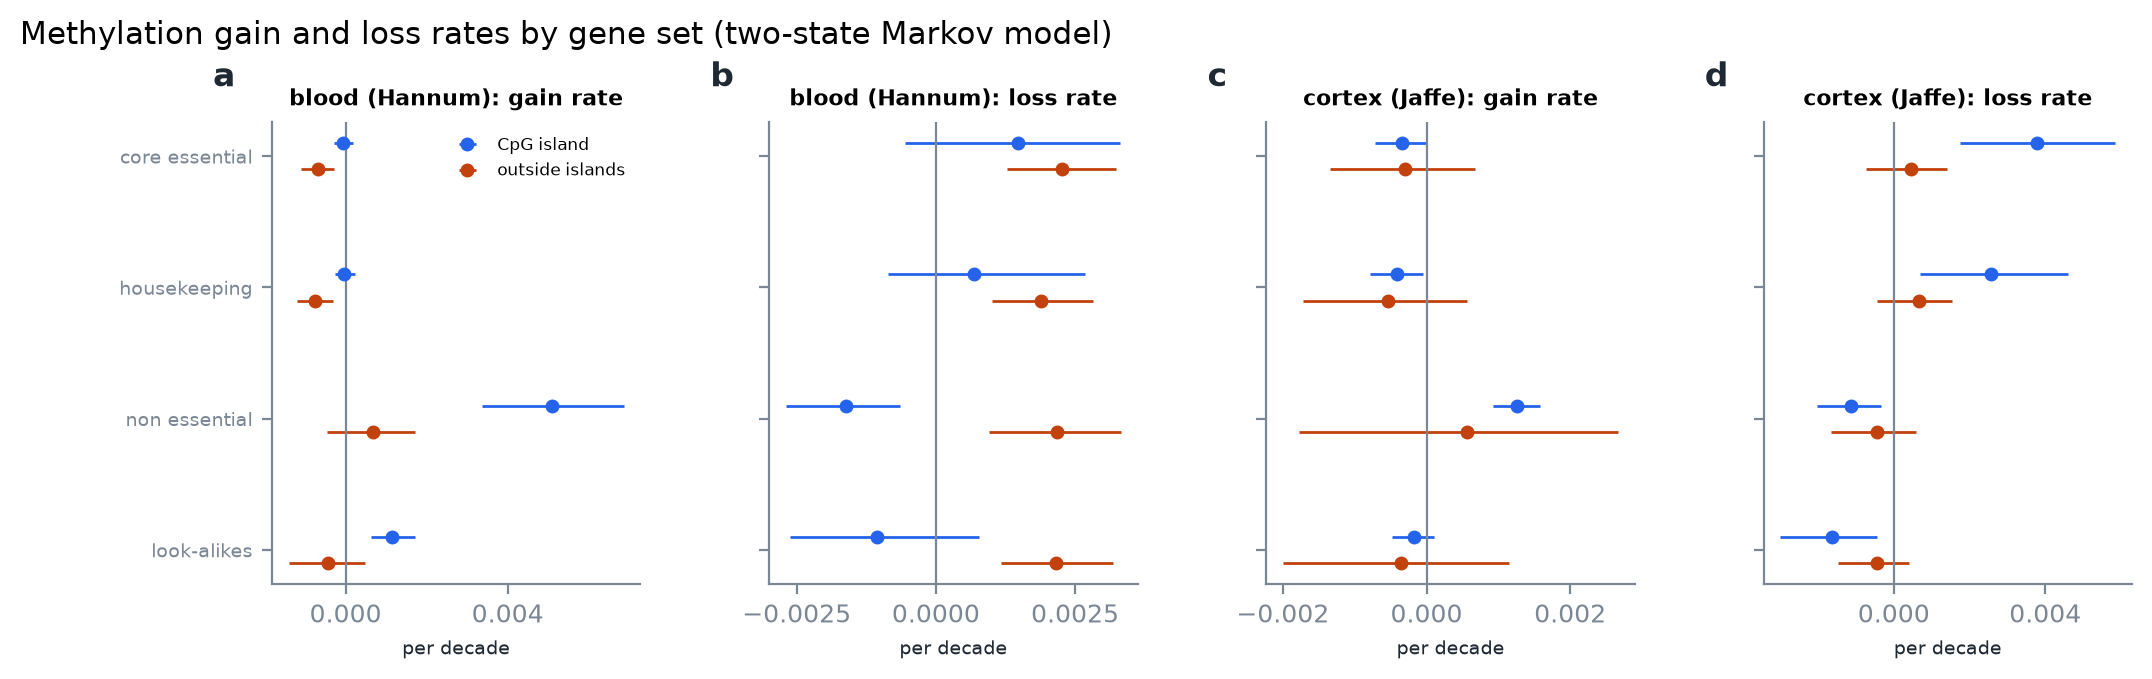
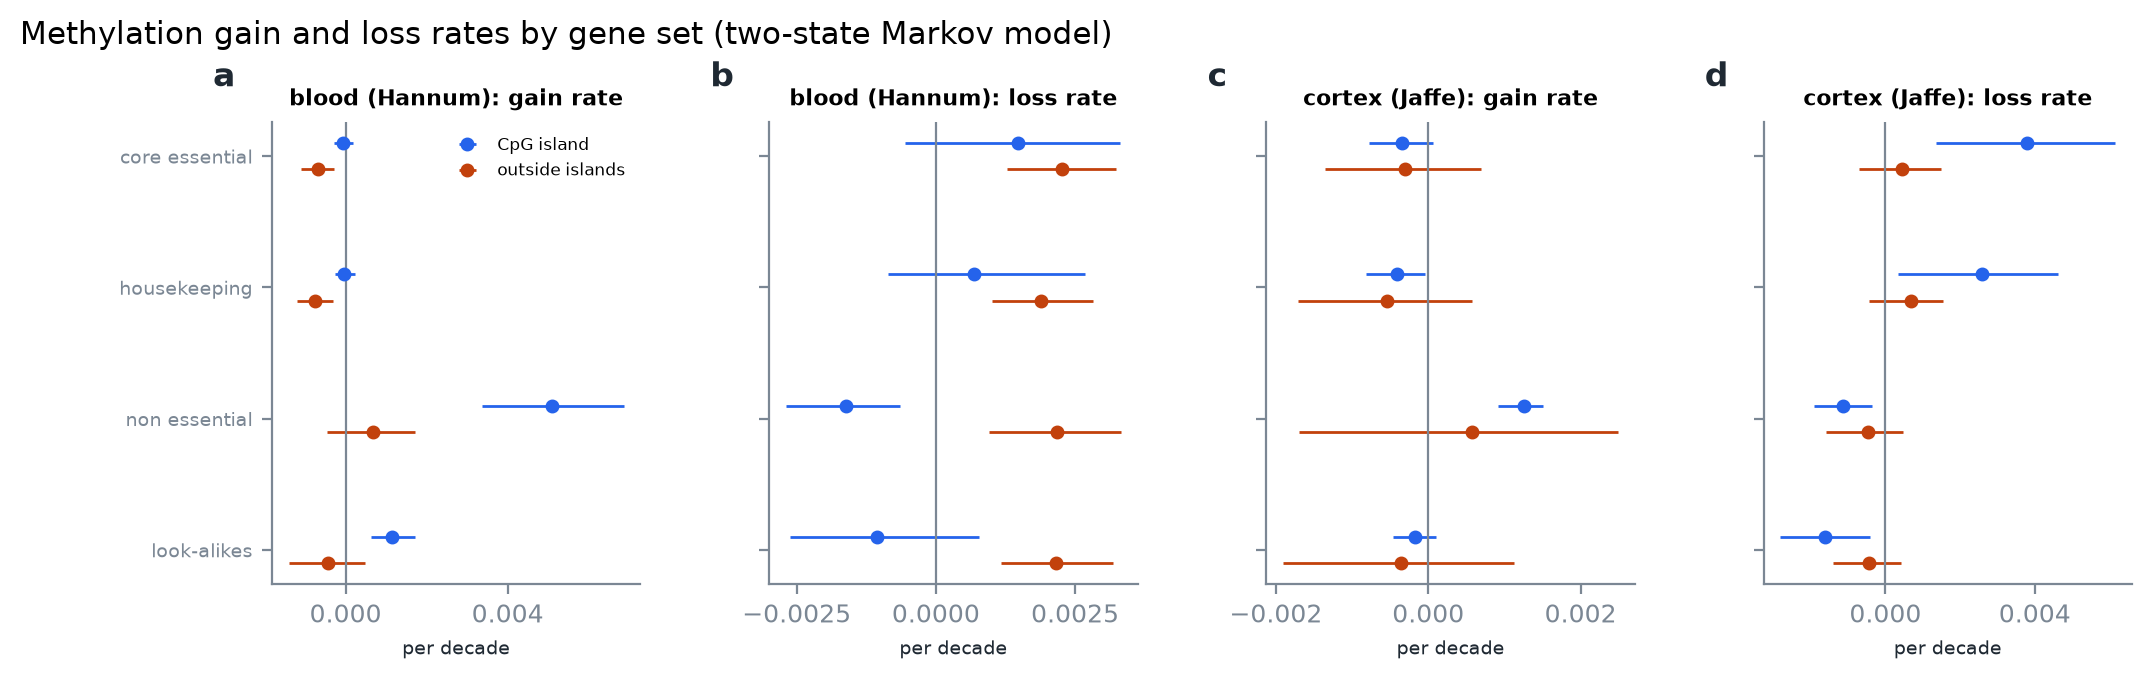
R74 written up (RM32): faster removal survives within active chromatin
Seat: entropy-age/lead
Claude-Session: https://claude.ai/code/session_01TJzjgJACUvbS1joxbZrgzk

diff --git a/docs/extension.md b/docs/extension.md
@@ -1934,8 +1934,23 @@ donors) and Jaffe's adult cortex (213), technical covariates removed:
   alike islands' loss), so read the differences, not the absolute values. Cross-sectional ages identify the
   resting level only where the curve bends; 16-24 % of CpGs are left out for that.
 
-Next (RM32): the loss-rate excess with chromatin state matched (ATAC, as R55 and R58), and in Tet-deficient cells,
-where active removal should shrink it.
+Chromatin held (R74). Two ways: rates refitted on active-TSS CpGs only (state 1_TssA in the tissue's own reference
+epigenome, E062 blood, E073 cortex), set and look-alikes alike; and per-CpG gaps with the chromatin state added to
+the strata.
+
+* **The faster removal survives chromatin.** Within active TSS only, essential island promoters still lose
+  methylation faster than look-alikes in the same state: blood core-essential +0.0063 per decade (+0.0031,
+  +0.0097), housekeeping +0.0015 (+0.0001, +0.0034); cortex +0.0070 (+0.0041, +0.0097) and +0.0057 (+0.0034,
+  +0.0083), as large as or larger than before.
+* **The lower resting level is mostly chromatin.** Per CpG, adding the state to the strata shrinks the resting-level
+  gap by about four fifths in blood (housekeeping −0.335 → −0.060 SD, core −0.243 → −0.062) and by half in cortex
+  (−0.145 → −0.071); the per-CpG loss-rate excess in blood falls to +0.01-0.02.
+* **Reading.** Where essential promoters sit in the genome's active chromatin explains most of why they rest low;
+  within that chromatin, they are still cleaned faster than other active promoters. That remainder is the first
+  sign of something beyond the chromatin state a reference map records (the state maps come from other people and
+  have 15 classes, so finer chromatin may still explain it).
+
+Next (RM32): Tet-deficient cells, where active removal should shrink the remainder.
 
 Tables: `data/output/equilibrium_drift/` (`pooled_rates`, `per_cpg_gaps`, `identified`).
 

diff --git a/docs/RUN_LOG.md b/docs/RUN_LOG.md
@@ -3,6 +3,15 @@
 Owned by the runner seat (`docs/seats/RUNNER.md`): one entry per run, newest first, with its inputs, the
 commit it ran, its job ids, its scale and seed, and its result or its failure with the cause.
 
+## R74 — gain and loss rates with chromatin state held (RM32), 2026-11-14
+
+- Commit 599c2fa; `figures equilibrium_drift --scale paper --seed 42`; 4 cores, 32 GB; job 6480933, 27 min.
+- Result, as measured (island promoters, set − look-alikes, loss per decade, 95 %): active TSS only, blood core
+  +0.0063 (+0.0031, +0.0097), housekeeping +0.0015 (+0.0001, +0.0034); cortex core +0.0070 (+0.0041, +0.0097),
+  housekeeping +0.0057 (+0.0034, +0.0083). Per-CpG with own state in strata: resting level blood −0.335 → −0.060
+  (housekeeping), −0.243 → −0.062 (core); cortex −0.145 → −0.071, −0.077 → −0.030; per-CpG loss blood +0.114 →
+  +0.020. Tables `data/output/equilibrium_drift/`.
+
 ## R72 — drift hotspots by region class (RM34 item 4), 2026-11-14
 
 - Commit a3805b7; `figures drift_hotspots --scale paper --seed 42`; 4 cores, 96 GB (21 GB peak); job 6480722, 1 min

diff --git a/docs/ROADMAP.md b/docs/ROADMAP.md
@@ -141,8 +141,9 @@ cortex; compare essential promoters with look-alikes on the fraction of the way 
 and on z itself. Answers whether the shield is a slower approach to the same equilibrium or a different
 equilibrium (repair biased toward unmethylated).
 - Done (R67): a different resting level. Essential island promoters gain no faster than look-alikes and lose
-  faster (blood +0.0025, cortex +0.0054 per decade), so they rest lower with less room to drift. Next: the loss
-  excess with chromatin state matched (ATAC, as R55/R58), then in Tet-deficient cells.
+  faster (blood +0.0025, cortex +0.0054 per decade), so they rest lower with less room to drift.
+- Done (R74): within active-TSS chromatin the faster removal remains (blood core +0.006, cortex +0.006-0.007 per
+  decade); the lower resting level is mostly chromatin (four fifths in blood). Next: Tet-deficient cells.
 
 ## RM14 — Natural experiments in chromatin: broken writers, knockouts, edits
 

diff --git a/docs/CLAIMS.md b/docs/CLAIMS.md
@@ -57,6 +57,9 @@ a test with little power), **refuted**.
   only (R58's blood remainder is entropy-only). On the mouse array the corrected measure orders the shield by
   turnover: present in all five renewing tissues, reversed in four of five post-mitotic ones. That is the pattern
   this claim said we should not see; R67's faster removal at essential promoters would need division to act.
+- **Beyond the state map (R74):** within active-TSS chromatin, essential island promoters still lose methylation
+  faster than other active promoters (blood core +0.006, cortex +0.006-0.007 per decade); the state explains most
+  of their lower resting level.
 - **Status:** holds as association in blood; weaker in cortex; the turnover result now stands against it and is open.
 
 ## C3 — The shield is not selection among cells (H2 rejected)

diff --git a/docs/CHANGELOG.md b/docs/CHANGELOG.md
@@ -4,6 +4,7 @@ Newest first.
 
 ## Unreleased
 
+- 2026-11-14: R74 written up (RM32): faster removal at essential promoters survives within active chromatin; their lower resting level is mostly chromatin.
 - `equilibrium_drift` (RM32 next step): gain and loss rates within active-TSS chromatin only, and per-CpG gaps with the own chromatin state in the strata; run R74 planned.
 - Relative entropy (`kl_slope`) added to the mouse interventions, BXD, RRBS-tissue and Meer comparisons (RM33 leftovers, run R73); `drift_hotspots` figure on one x scale.
 - 2026-11-14: R72 written up (RM34 item 4): blood's rising spread is a Polycomb programme; cortex's is broad.
